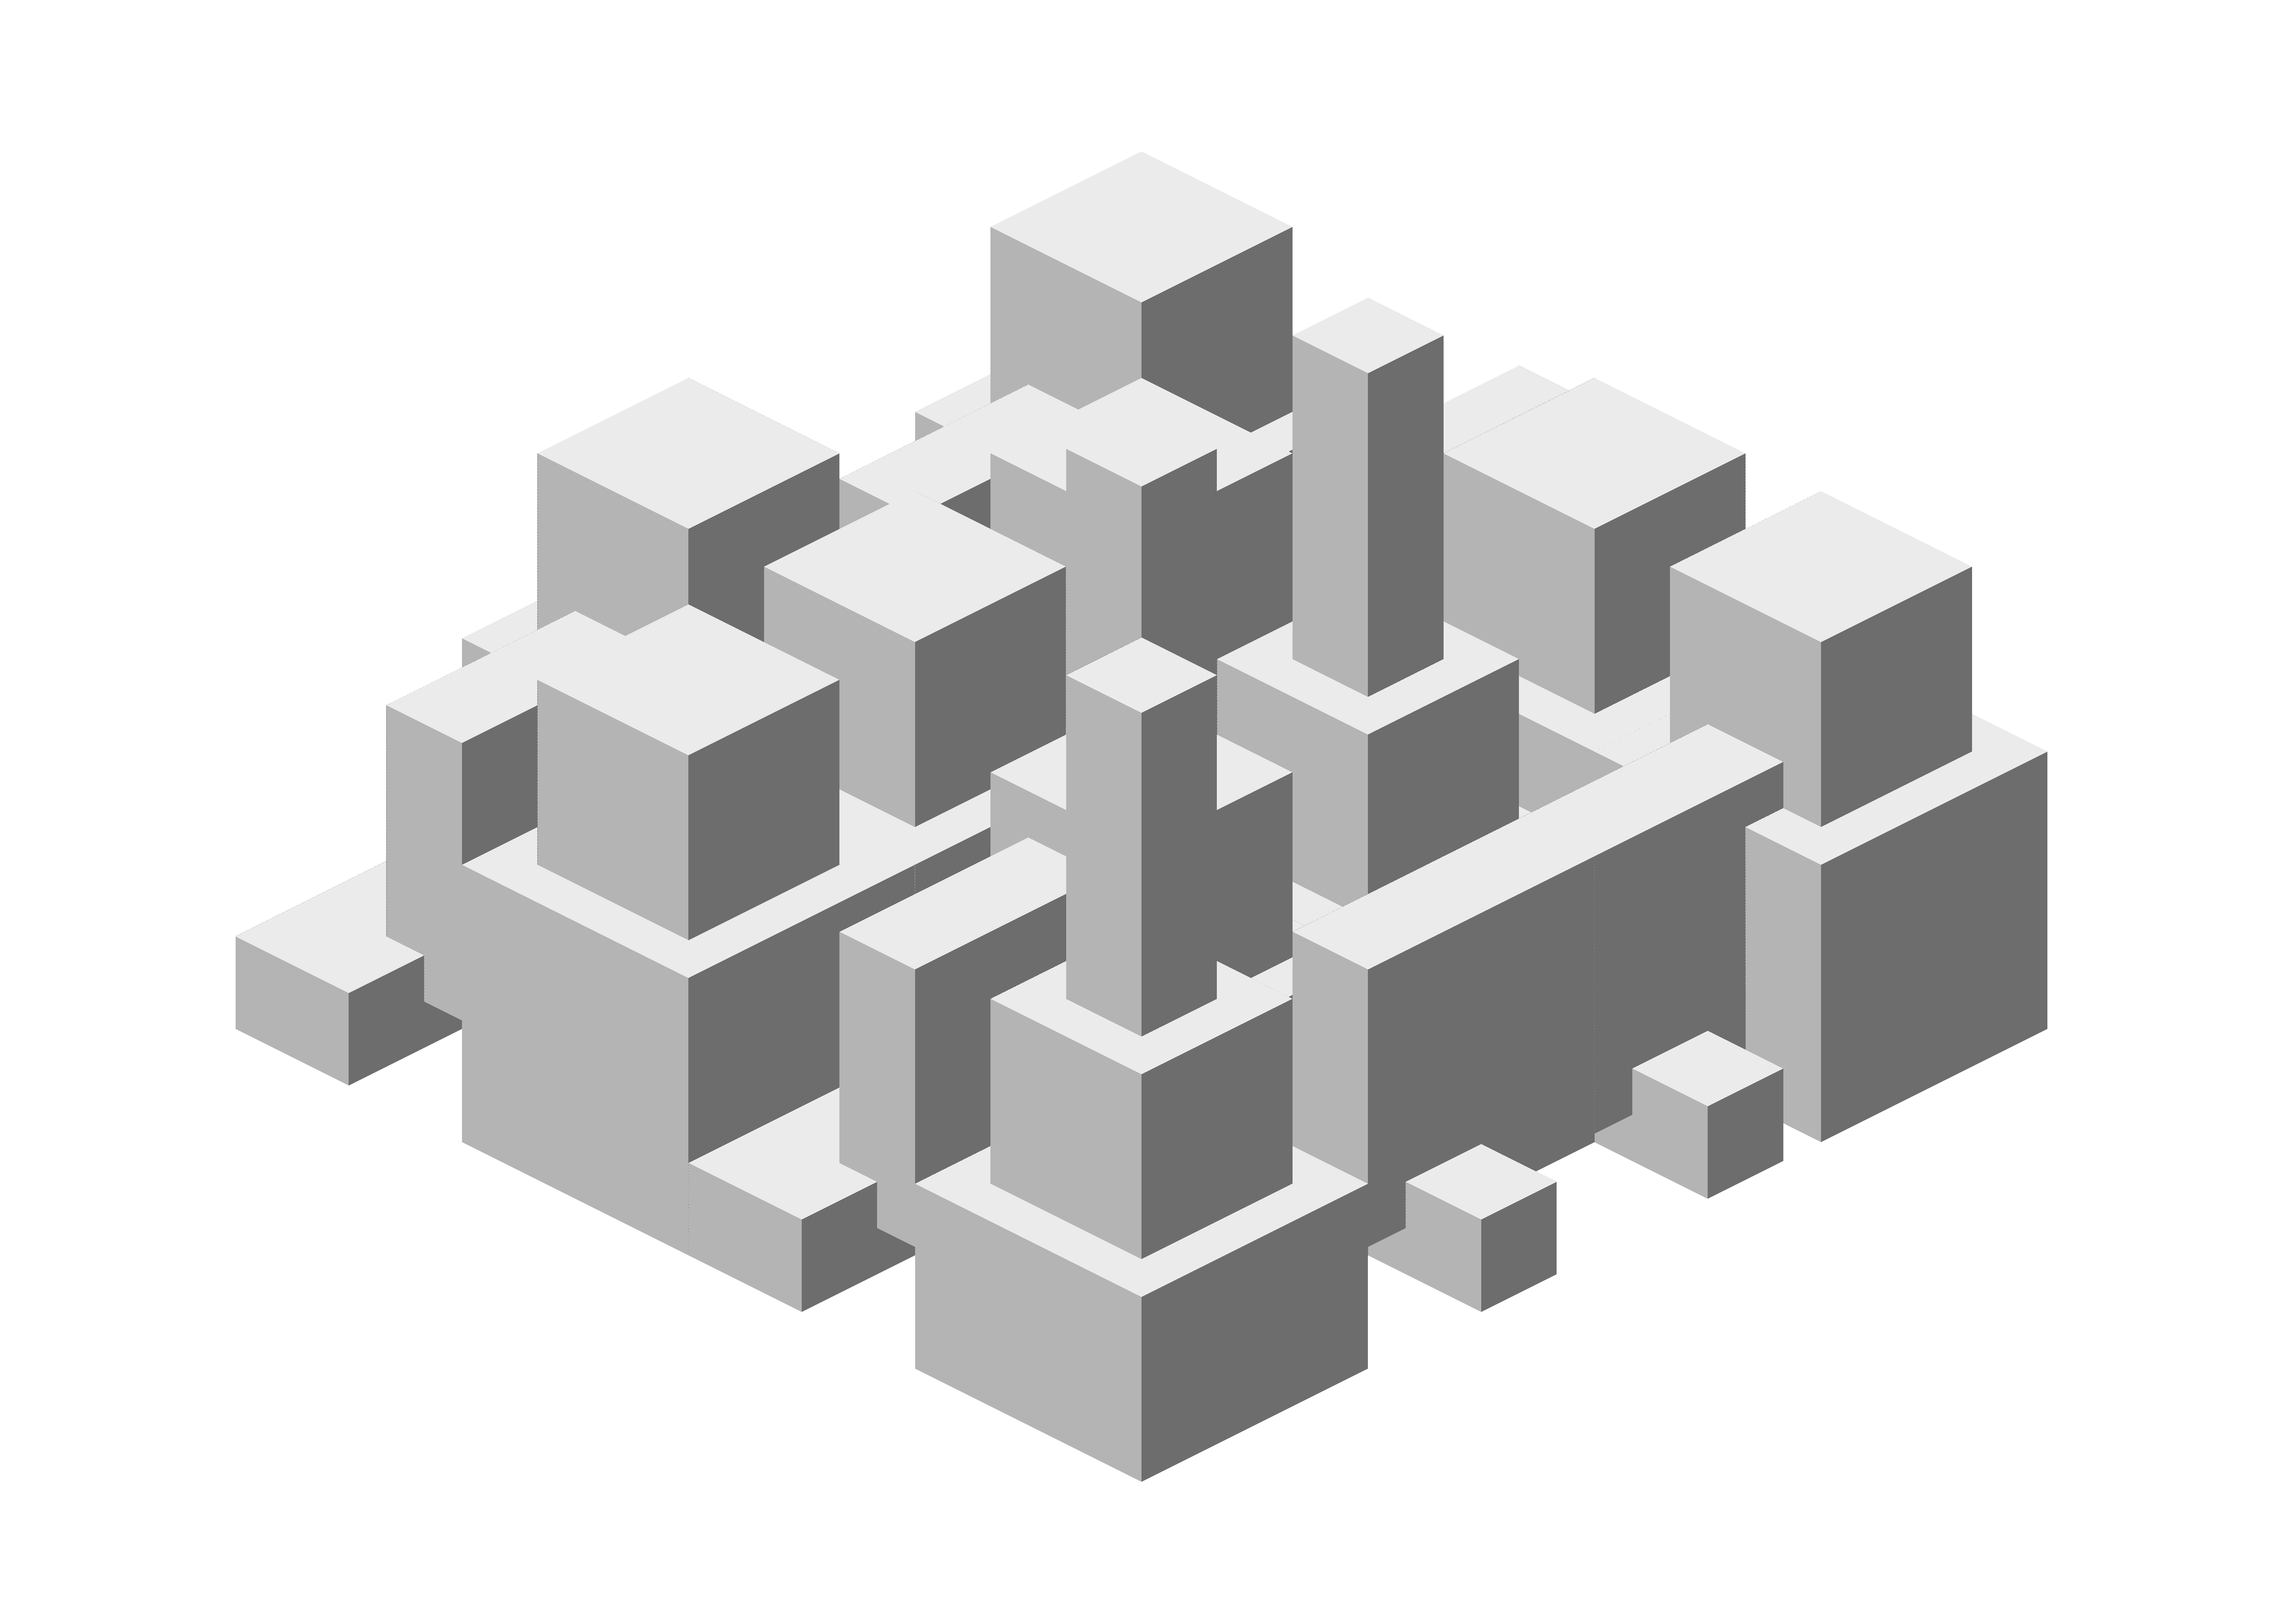
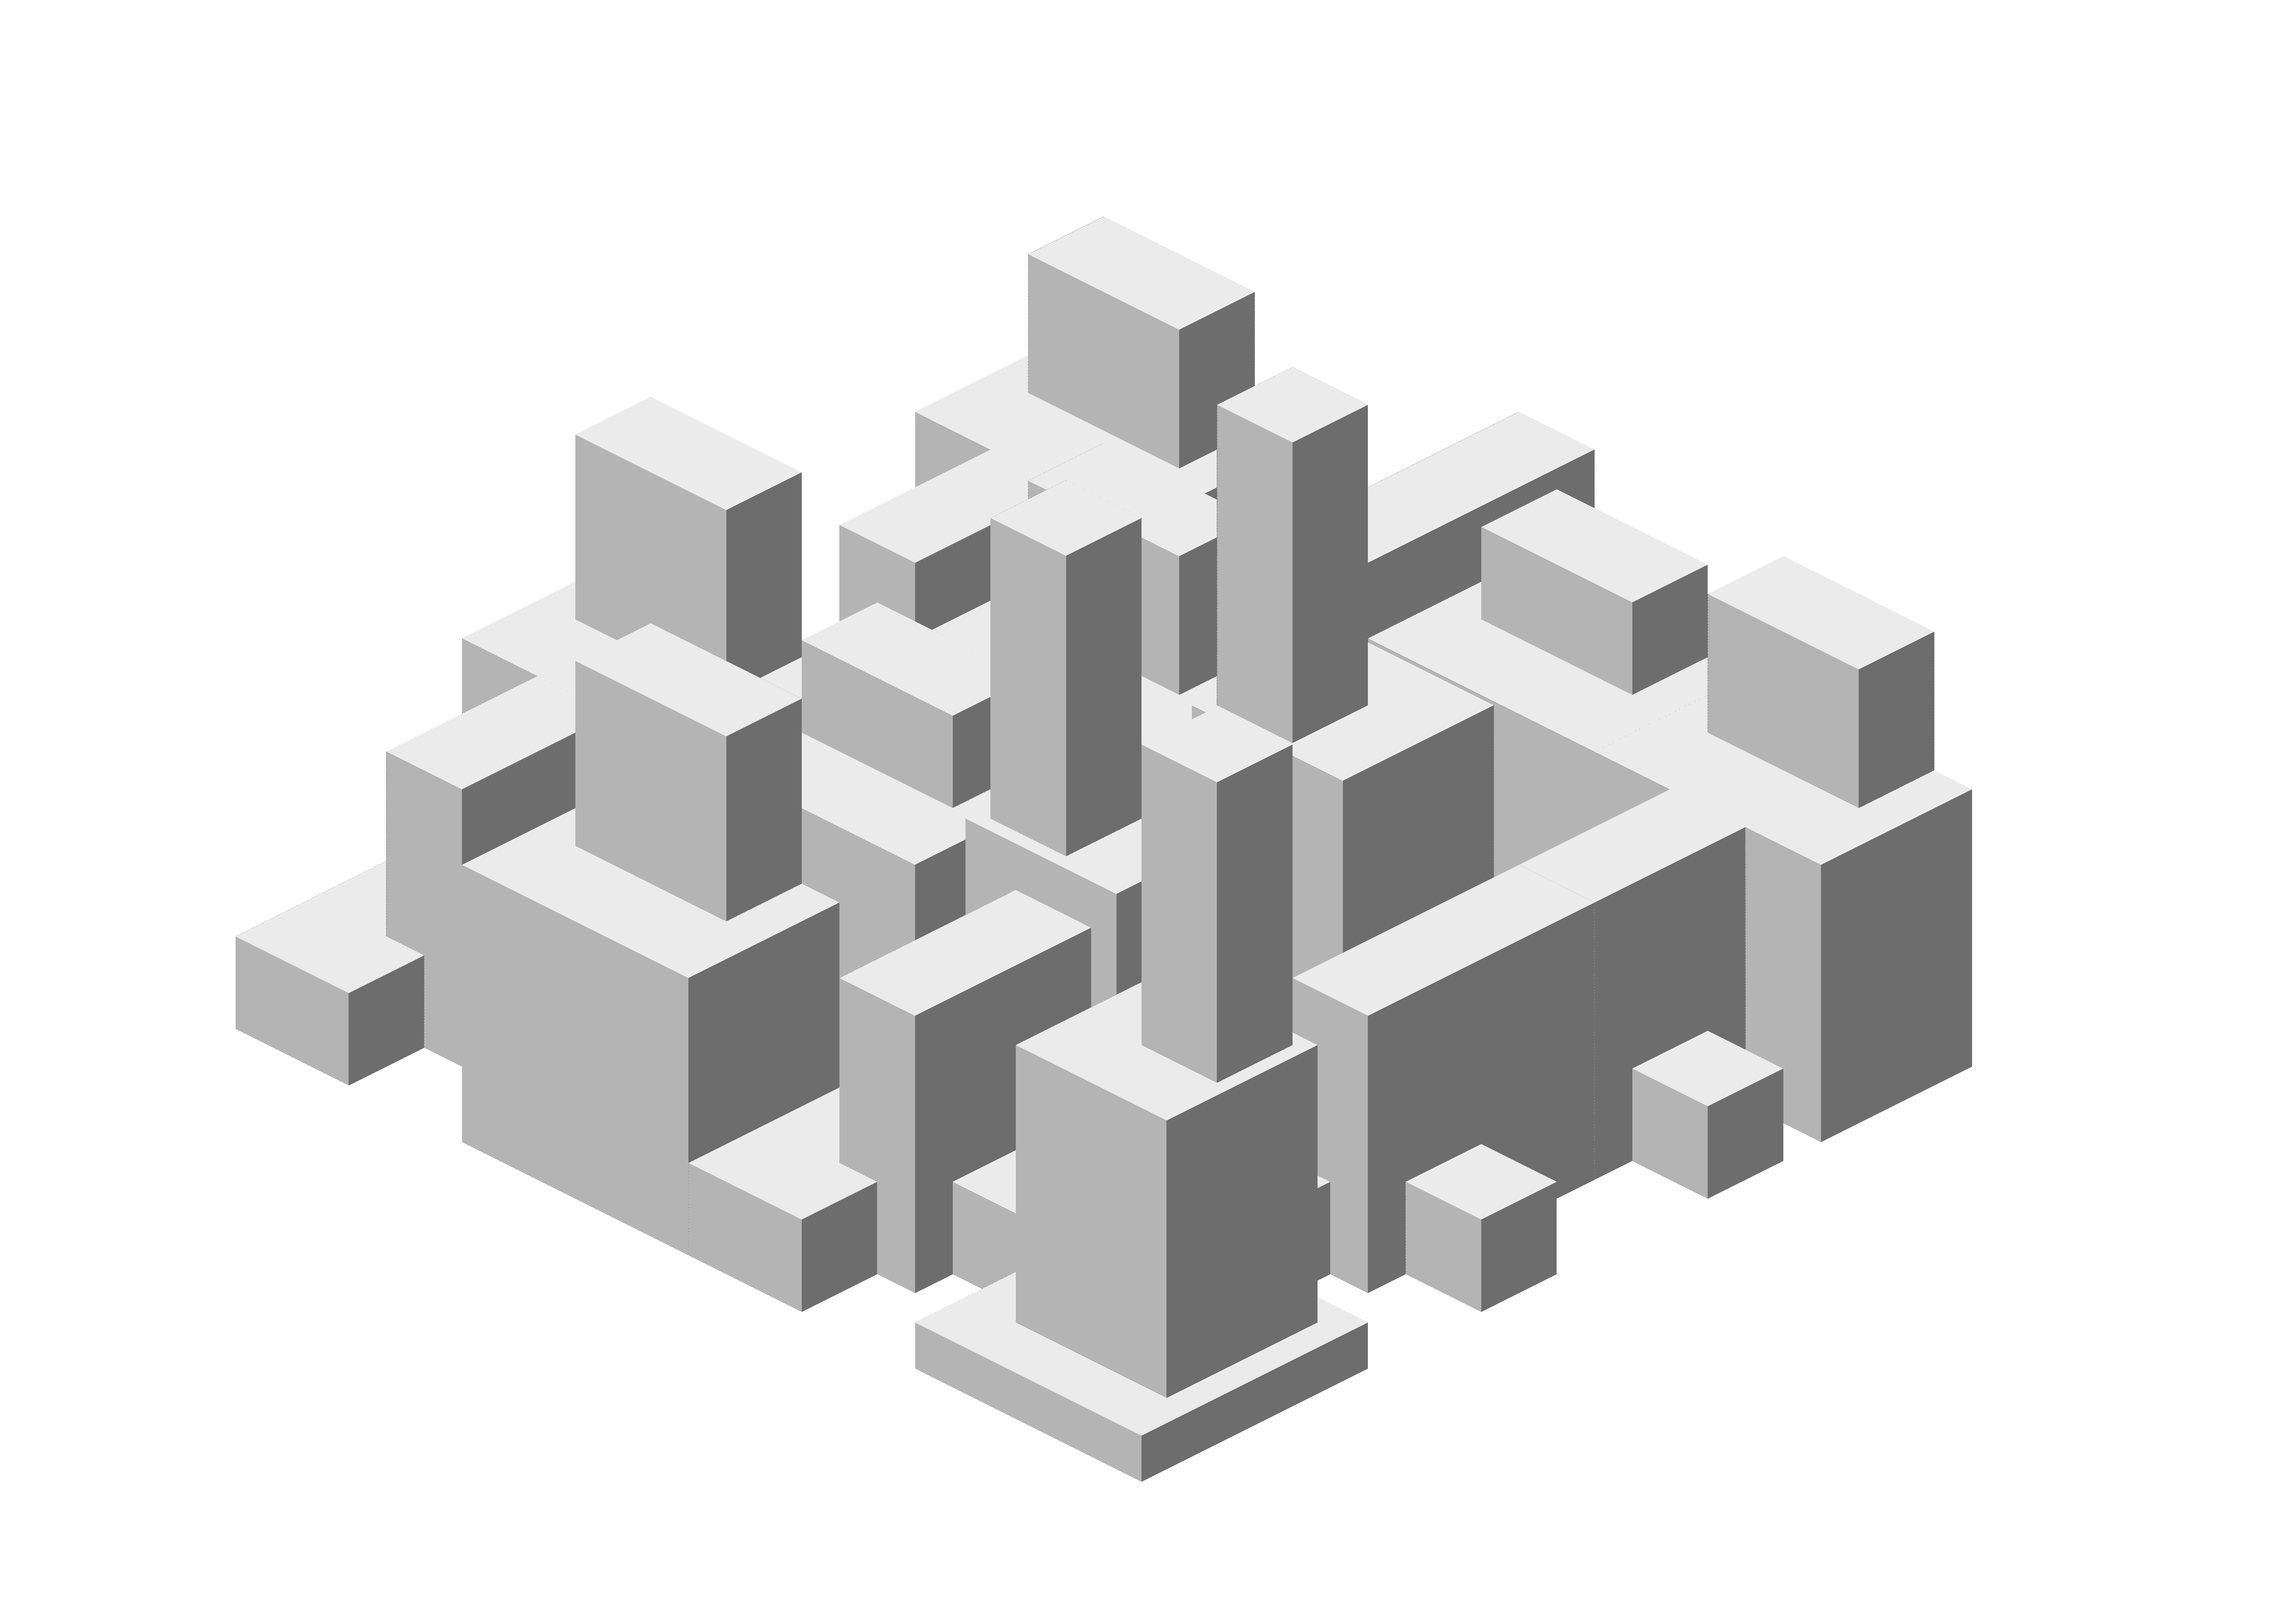
updated hi-res render to reflect new code

Changed region(s): [[0.1557, 0.1248, 0.9032, 0.9045], [0.654, 0.6862, 0.7163, 0.7486], [0.1869, 0.6238, 0.218, 0.655]]

diff --git a/openSCAD render color scheme (for clean image export)/README.md b/openSCAD render color scheme (for clean image export)/README.md
@@ -19,3 +19,7 @@ If OpenSCAD is on your Applications folder on OS X, the command should be
 Here is the result:
 
 ![./command line image export example](./image-export-example.png)
+
+Here is a result from an older version of the code:
+
+![./command line image export example](./older-image-export-example.png)
